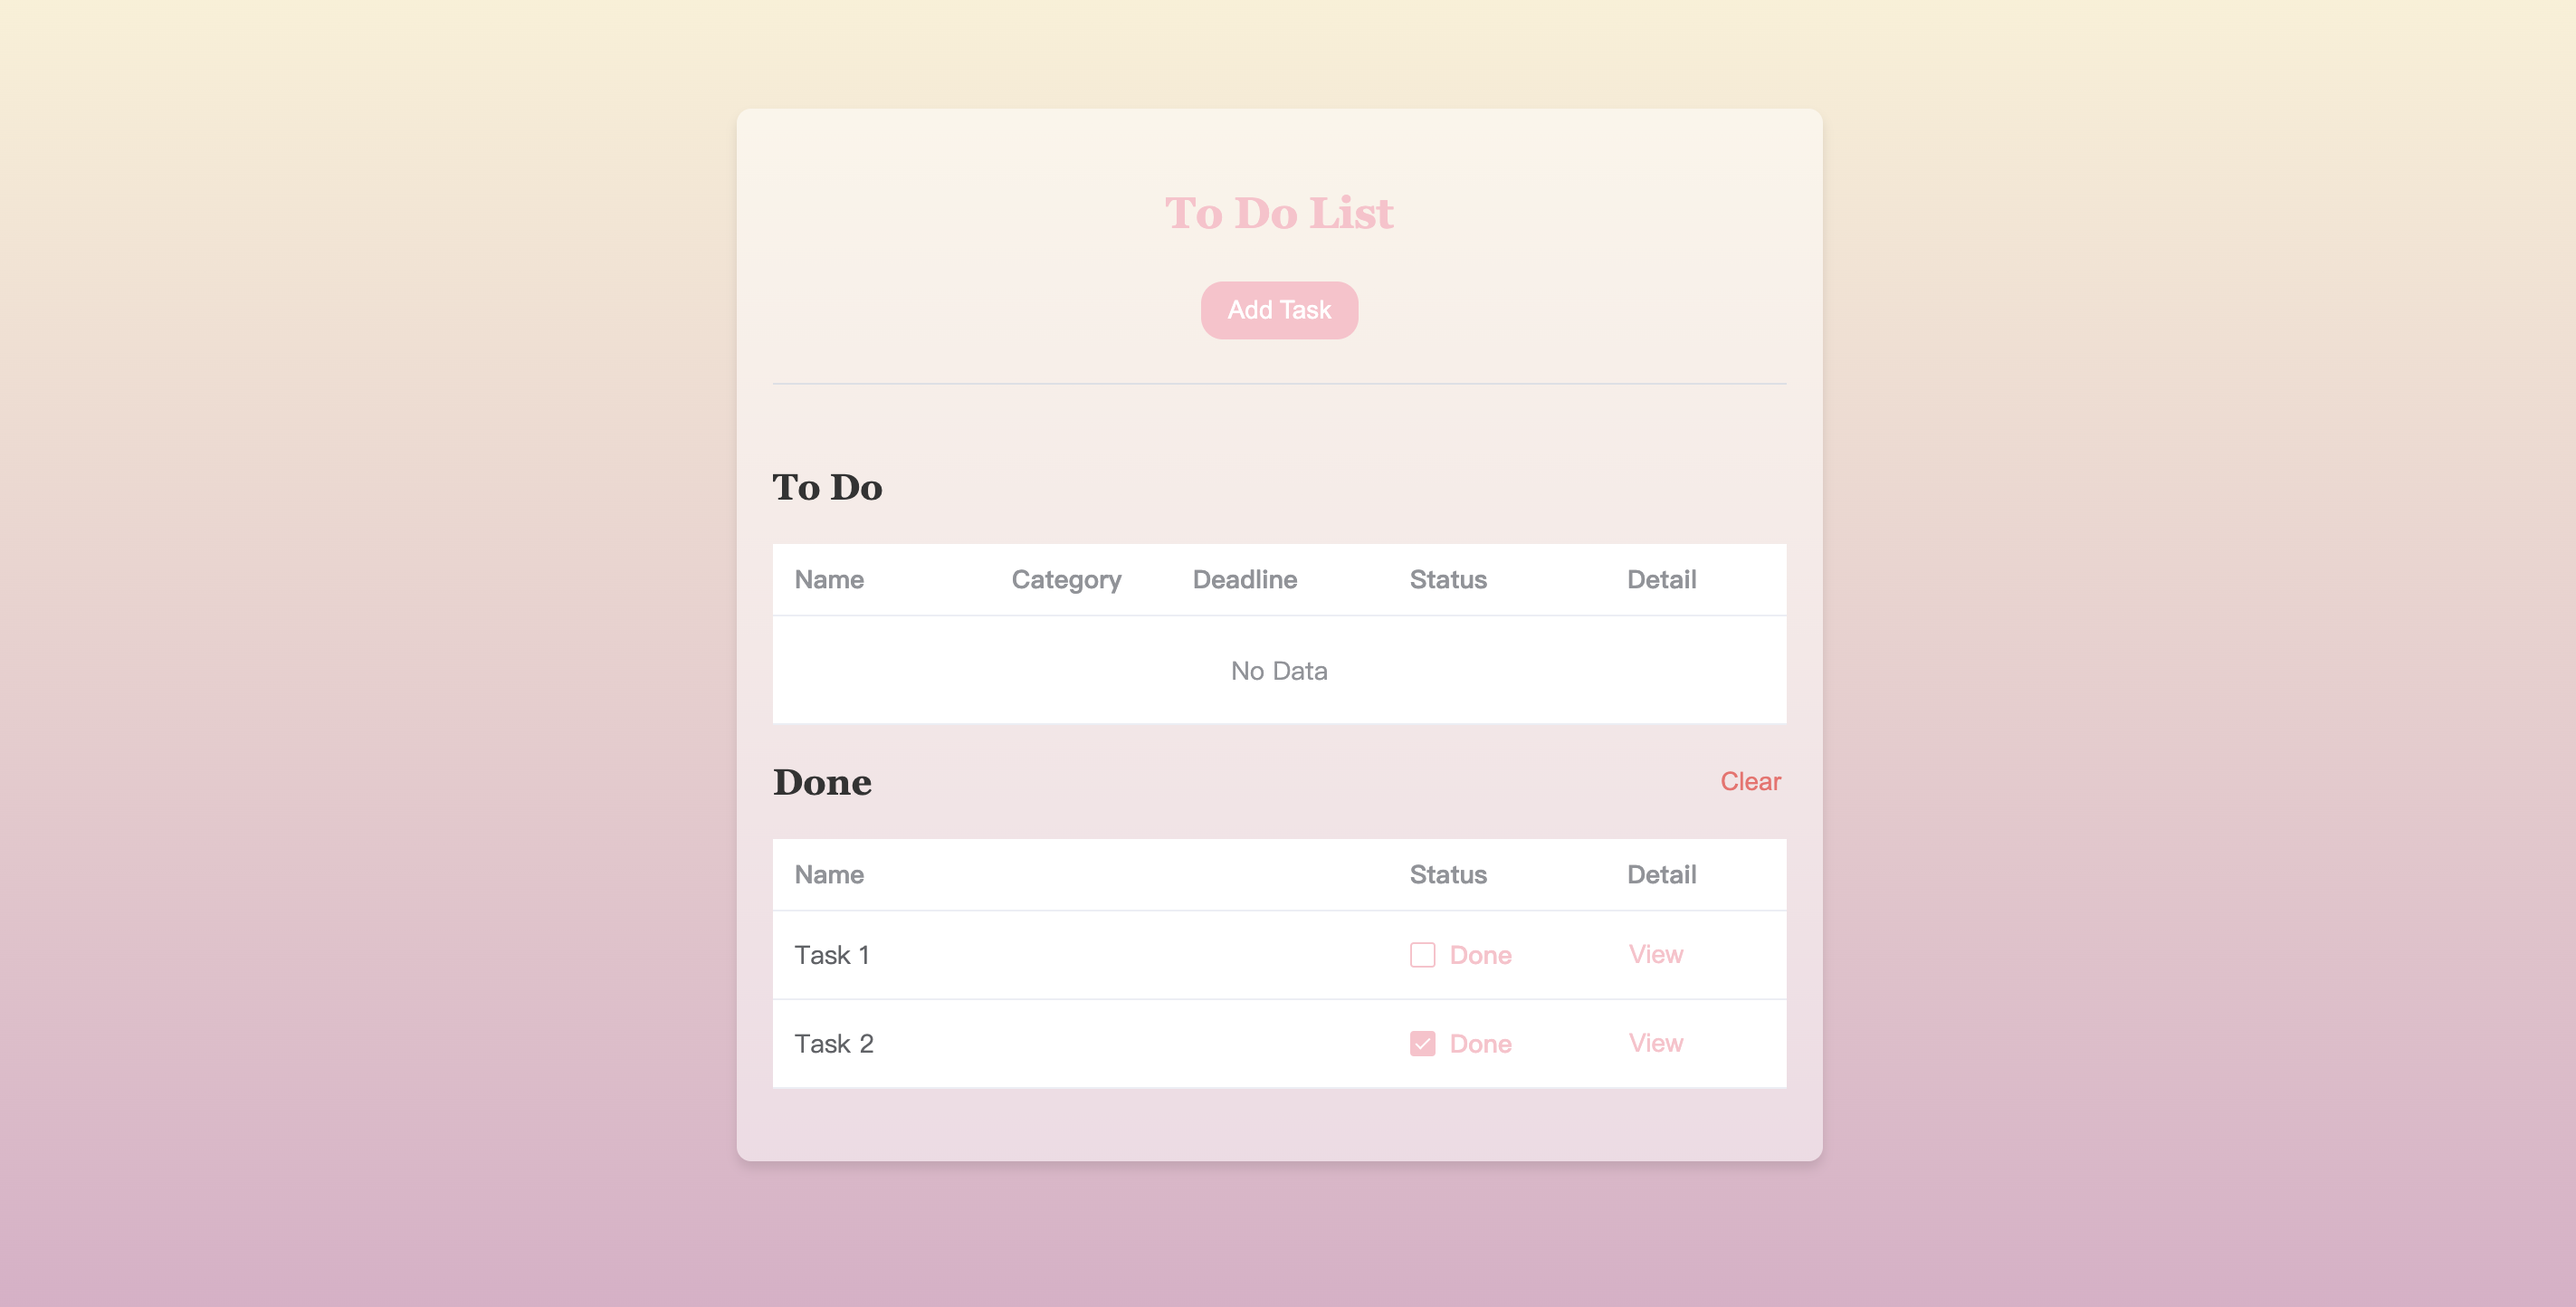
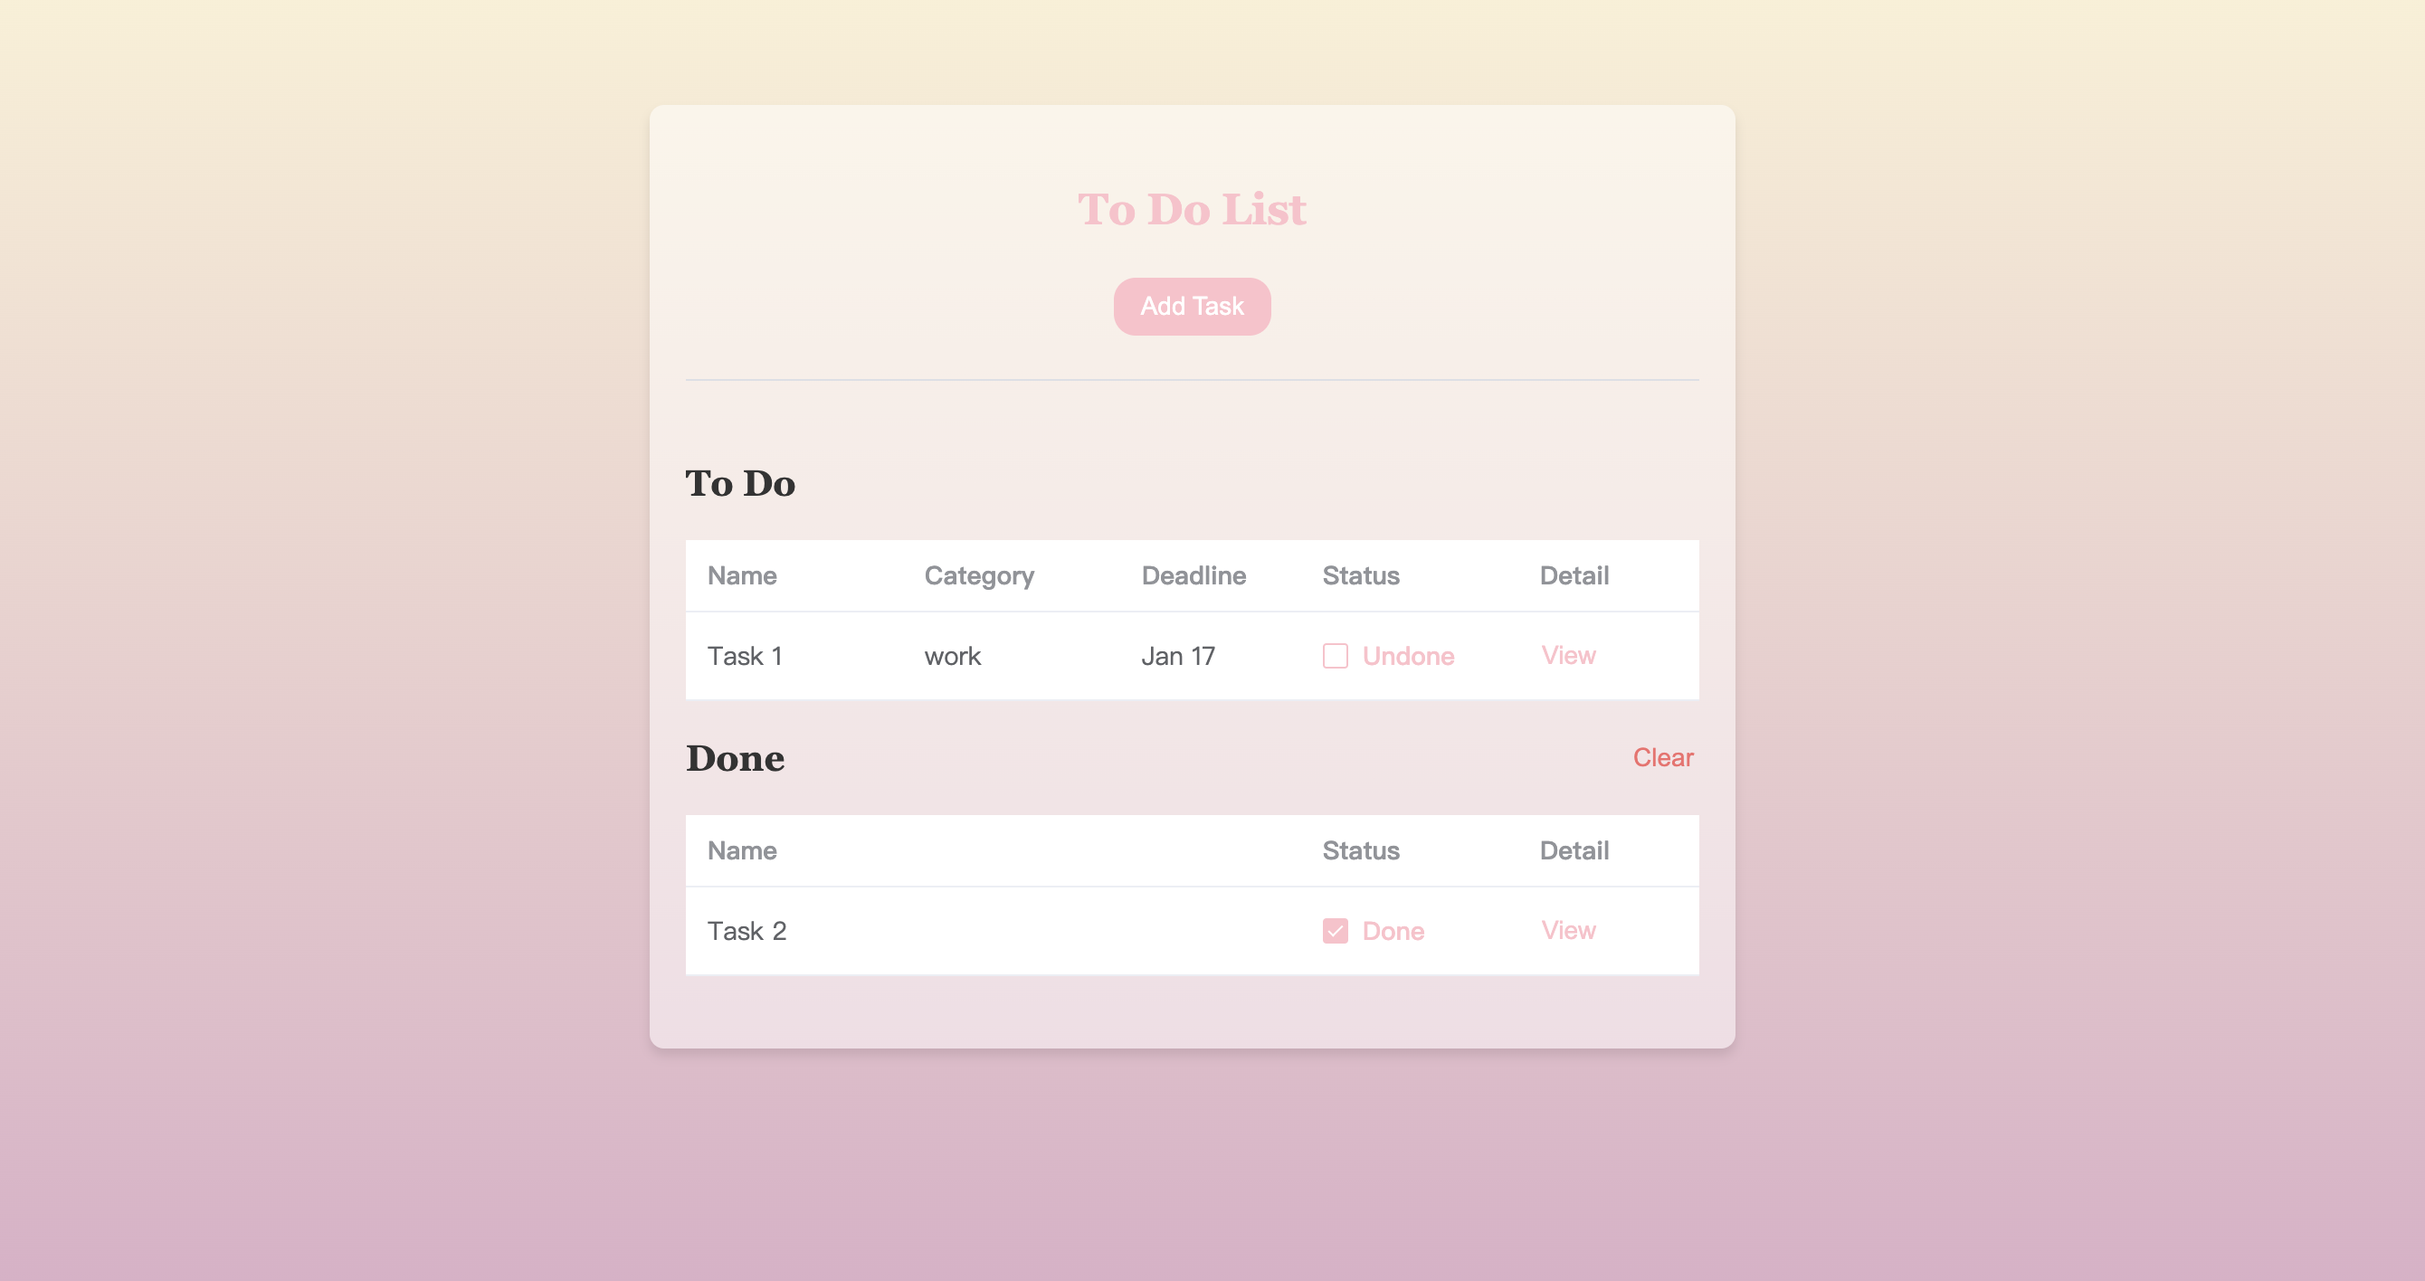
docs: 补充介绍

diff --git a/src/components/todoList.vue b/src/components/todoList.vue
@@ -29,8 +29,11 @@ function formatDate(date: Date): string {
   return new Intl.DateTimeFormat('en-US', options).format(new Date(date));
 }
 
-function toggleTaskStatus(task: { id: number; name: string; category: string; done: boolean; date: Date; description?: string }) {
-  task.done = !task.done;
+function toggleTaskStatus(id: number, newStatus: boolean) {
+  const updatedTasks = props.tasks.map(task =>
+      task.id === id ? { ...task, done: newStatus } : task
+  );
+  emit('updateTask', updatedTasks);
 }
 
 function showDetail(task: { id: number; name: string; category: string; done: boolean; date: Date; description?: string }) {
@@ -67,12 +70,12 @@ function clearCompleted() {
       <h3>To Do</h3>
       <el-table :data="incompleteTasks" style="width: 100%">
         <el-table-column prop="name" label="Name" width="120" />
-        <el-table-column prop="category" label="Category" width="100" />
-        <el-table-column prop="date" label="Deadline" width="120" :formatter="(row: any) => formatDate(row.date)"/>
+        <el-table-column prop="category" label="Category" width="120" />
+        <el-table-column prop="date" label="Deadline" width="100" :formatter="(row: any) => formatDate(row.date)"/>
         <el-table-column label="Status" width="120" >
           <template #default="{ row }">
-            <el-checkbox :checked="!row.done" @change="toggleTaskStatus(row)">
-              Undone
+            <el-checkbox :checked="row.done" @change="(checked: boolean) => toggleTaskStatus(row.id, checked)">
+              {{ row.done ? 'Done' : 'Undone' }}
             </el-checkbox>
           </template>
         </el-table-column>
@@ -94,8 +97,8 @@ function clearCompleted() {
         <el-table-column prop="name" label="Name" width="340" />
         <el-table-column label="Status" width="120">
           <template #default="{ row }">
-            <el-checkbox :checked="row.done" @change="toggleTaskStatus(row)">
-              Done
+            <el-checkbox :checked="row.done" @change="(checked: boolean) => toggleTaskStatus(row.id, checked)">
+              {{ row.done ? 'Done' : 'Undone' }}
             </el-checkbox>
           </template>
         </el-table-column>

diff --git a/src/components/todoInput.vue b/src/components/todoInput.vue
@@ -32,6 +32,7 @@ function onSubmit() {
   // 重置表单并关闭对话框
   form.name = '';
   form.category = '';
+  form.done = false;
   form.date = new Date();
   form.description = '';
   centerDialogVisible.value = false;

diff --git a/README.md b/README.md
@@ -16,3 +16,18 @@
 
 ## 界面
 
+运行后，备忘录页面如图，分为 To Do 和 Done 两部分。
+
+勾选 Undone，当前todo条目将被移入 Done 区域。点击 clear，Done 区域中所有的内容会被删除。
+
+<img src="./README/1.png">
+
+点击标题下的 Add Task 按钮，会弹出对话框，填入必填信息后选中 Add，新的todo条目就会在页面显示。
+
+<img src="./README/2.png">
+
+<img src="./README/3.png">
+
+点击 View，可以查看当前条目的具体信息，并进行修改和删除操作。
+
+<img src="./README/4.png">
